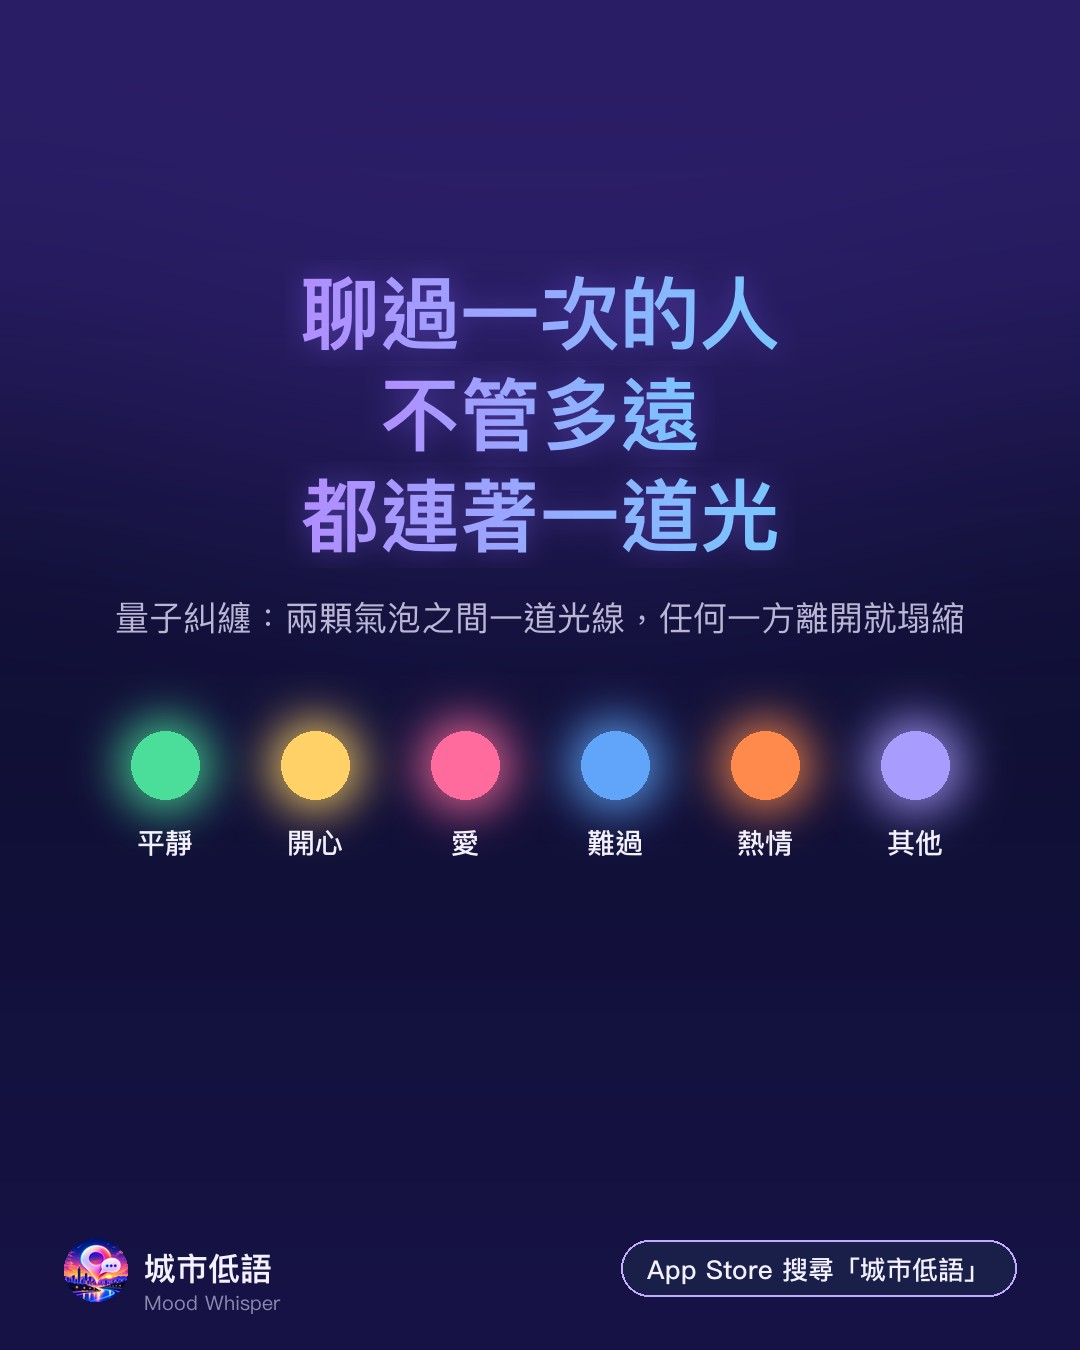
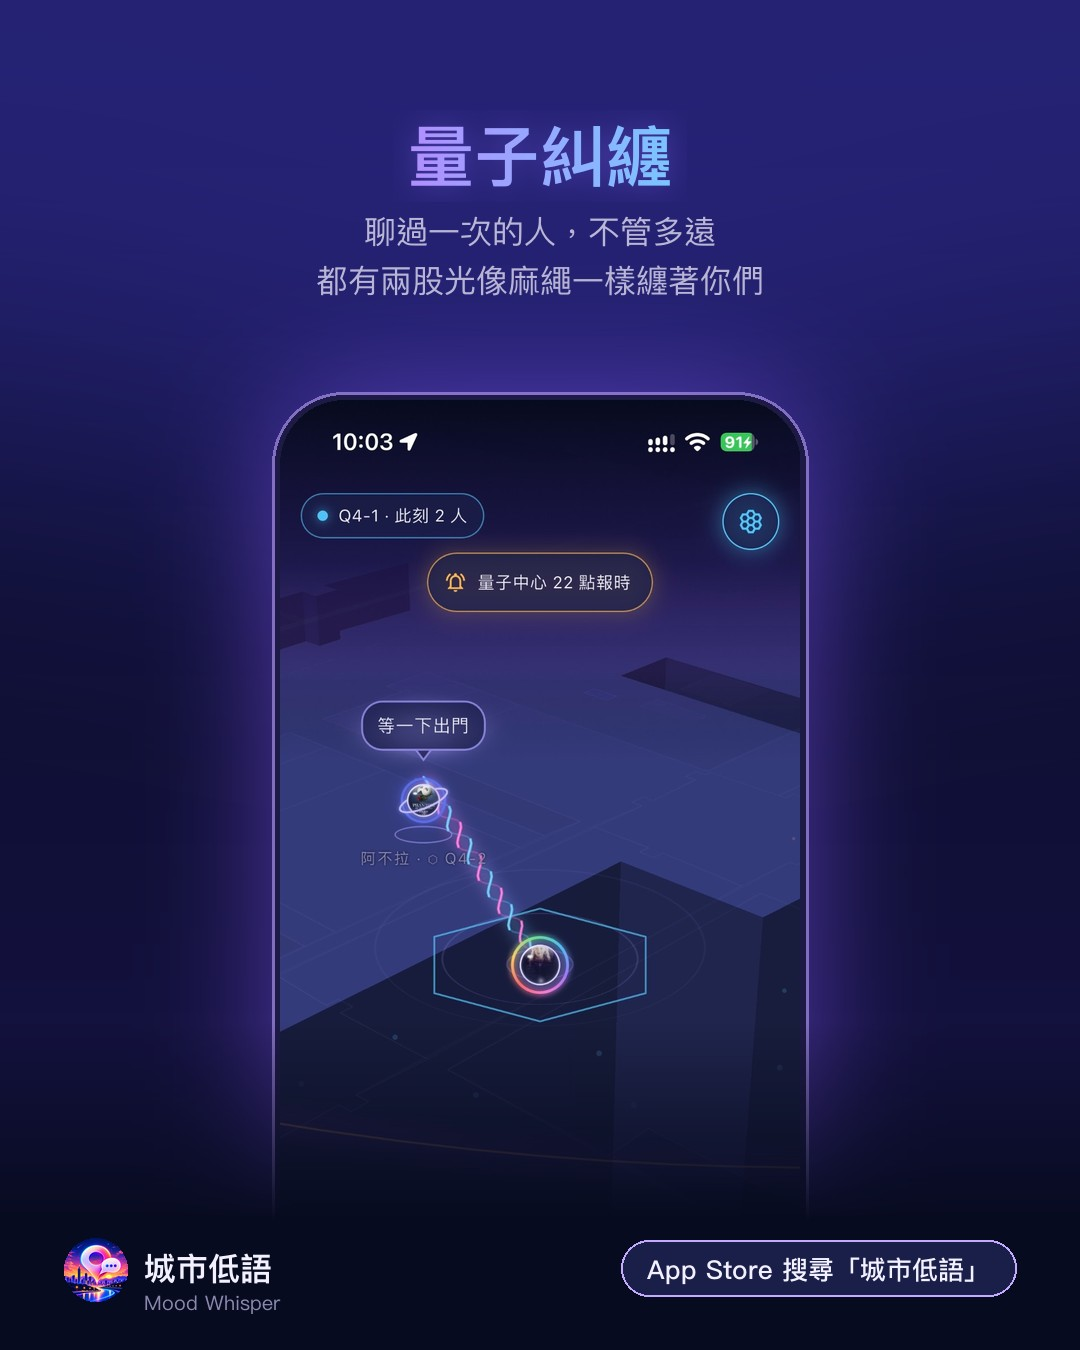
Quantum entanglement drawn as a twisted two-strand rope
Pink and blue strands wind around each other, taper into both orbs,
front strand bright and back strand dim, slowly rotating. One blur
for the whole haze, not per segment. Day 13 social image now uses
the real rope screenshot.

diff --git a/lib/quantum_live.dart b/lib/quantum_live.dart
@@ -460,12 +460,13 @@ class QuantumChimePainter extends CustomPainter {
   bool shouldRepaint(covariant QuantumChimePainter old) => true;
 }
 
-/// 量子糾纏：自己和對方之間一道細細的光線，不管相隔多遠都看得到（對方在畫面外時，線指向他的方向）
+/// 量子糾纏：自己和對方之間兩股光（粉、藍）像麻繩一樣互相纏繞，不管相隔多遠都看得到（對方在畫面外時，繩子指向他的方向）。
+/// 兩端收攏進氣泡、中間繞得最開；轉到前面的一股亮、繞到後面的一股暗，整條繩子慢慢旋轉。
 class QuantumEntanglePainter extends CustomPainter {
   final Offset me;
-  final List<(Offset, String)> ends; // 線的另一端與暱稱（對方在畫面外時才標名字）
+  final List<(Offset, String)> ends; // 繩子的另一端與暱稱（對方在畫面外時才標名字）
   final List<bool> offscreen;
-  final double phase; // 0～1，光線上流動的光點
+  final double phase; // 0～1，繩子轉一圈
 
   QuantumEntanglePainter({required this.me, required this.ends, required this.offscreen, required this.phase});
 
@@ -473,11 +474,58 @@ class QuantumEntanglePainter extends CustomPainter {
   void paint(Canvas canvas, Size size) {
     for (var i = 0; i < ends.length; i++) {
       final (end, name) = ends[i];
-      final shader = LinearGradient(colors: [Night.knockPink.withOpacity(0.7), Night.auroraBlue.withOpacity(offscreen[i] ? 0.15 : 0.7)]).createShader(Rect.fromPoints(me, end));
-      canvas.drawLine(me, end, Paint()..shader = shader..strokeWidth = 4..maskFilter = const MaskFilter.blur(BlurStyle.normal, 4));
-      canvas.drawLine(me, end, Paint()..shader = shader..strokeWidth = 1.2);
+      final d = end - me;
+      final len = d.distance;
+      if (len < 8) continue;
+      final nrm = Offset(-d.dy, d.dx) / len;
+      final far = offscreen[i] ? 0.2 : 0.85; // 對方在畫面外：遠端淡出
+      final rect = Rect.fromPoints(me, end);
+
+      // 底下一層柔光（整條只模糊一次）
+      canvas.drawLine(me, end, Paint()
+        ..shader = LinearGradient(colors: [Night.knockPink.withOpacity(0.35), Night.auroraBlue.withOpacity(0.35 * far)]).createShader(rect)
+        ..strokeWidth = 12
+        ..maskFilter = const MaskFilter.blur(BlurStyle.normal, 6));
+
+      final turns = max(2.0, len / 30); // 大約每 30 點繞一圈
+      final steps = (len / 3).round().clamp(24, 260);
+      final spin = phase * 2 * pi + i * 1.3;
+      const amp = 5.5;
+      final strands = [Night.knockPink, Night.auroraBlue];
+      final backs = [Path(), Path()], fronts = [Path(), Path()];
+      for (var k = 0; k < 2; k++) {
+        bool? wasFront;
+        for (var j = 0; j <= steps; j++) {
+          final s = j / steps;
+          final taper = min(1.0, min(s, 1 - s) * 5); // 兩端收攏
+          final theta = s * turns * 2 * pi - spin + k * pi;
+          final pt = me + d * s + nrm * (amp * taper * sin(theta));
+          final isFront = cos(theta) >= 0;
+          final path = isFront ? fronts[k] : backs[k];
+          if (wasFront != isFront) {
+            // 換到另一層：從上一點接起，線才不會斷
+            final prevS = max(0, j - 1) / steps;
+            final pt0 = me + d * prevS + nrm * (amp * min(1.0, min(prevS, 1 - prevS) * 5) * sin(prevS * turns * 2 * pi - spin + k * pi));
+            path.moveTo(pt0.dx, pt0.dy);
+            wasFront = isFront;
+          }
+          path.lineTo(pt.dx, pt.dy);
+        }
+      }
+      Shader strandShader(Color c, double a) =>
+          LinearGradient(colors: [c.withOpacity(a), c.withOpacity(a * far)]).createShader(rect);
+      final round = Paint()..style = PaintingStyle.stroke..strokeCap = StrokeCap.round..strokeJoin = StrokeJoin.round;
+      for (var k = 0; k < 2; k++) {
+        canvas.drawPath(backs[k], Paint.from(round)..shader = strandShader(strands[k], 0.35)..strokeWidth = 1.3);
+      }
+      for (var k = 0; k < 2; k++) {
+        canvas.drawPath(fronts[k], Paint.from(round)..shader = strandShader(strands[k], 0.95)..strokeWidth = 2.2);
+        canvas.drawPath(fronts[k], Paint.from(round)..shader = strandShader(Colors.white, 0.55)..strokeWidth = 0.6);
+      }
+
+      // 沿著繩子流動的光點
       final k = (phase + i / max(1, ends.length)) % 1.0;
-      canvas.drawCircle(Offset.lerp(me, end, k)!, 2.2, Paint()..color = Colors.white.withOpacity(0.85)..maskFilter = const MaskFilter.blur(BlurStyle.normal, 2));
+      canvas.drawCircle(Offset.lerp(me, end, k)!, 2.4, Paint()..color = Colors.white.withOpacity(0.9)..maskFilter = const MaskFilter.blur(BlurStyle.normal, 2));
       if (offscreen[i] && name.isNotEmpty) {
         final tp = TextPainter(
           text: TextSpan(text: '∞ $name', style: const TextStyle(color: Night.ink, fontSize: 11, shadows: [Shadow(color: Night.night900, blurRadius: 6)])),

diff --git a/marketing/campaign-10days.md b/marketing/campaign-10days.md
@@ -306,14 +306,14 @@
 
 > 不喜歡現在的鄰居？量子穿隧一下：每次進入量子世界可以用一次，瞬間跳到隨機空席位，遇見一群新的人。#城市低語 #量子穿隧
 
-## Day 13（11/18 二）量子糾纏　圖 t13
+## Day 13（11/18 二）量子糾纏　圖 t13（你 iPhone 拍的纏繞光繩）
 
 **IG／Threads／FB**
 
 > 有些人只聊過一次，卻一直記得。
 >
 > 在量子世界聊過天的兩個人，可以邀請對方「量子糾纏」：
-> 你們的氣泡之間會出現一道光線，
+> 你們的氣泡之間會出現兩股光，像麻繩一樣纏在一起，
 > 不管對方在蜂巢的哪一頭，都看得到。
 >
 > 任何一方離開，糾纏就塌縮。
@@ -326,7 +326,7 @@
 
 **X**
 
-> 聊過一次的人，不管多遠都連著一道光：量子糾纏。任何一方離開就塌縮，每人最多同時糾纏 3 人。#城市低語 #量子糾纏
+> 聊過一次的人，不管多遠都有兩股光纏著你們：量子糾纏。任何一方離開就塌縮，每人最多同時糾纏 3 人。#城市低語 #量子糾纏
 
 ## Day 14（11/19 三）量子相遇卡　圖 t14
 
